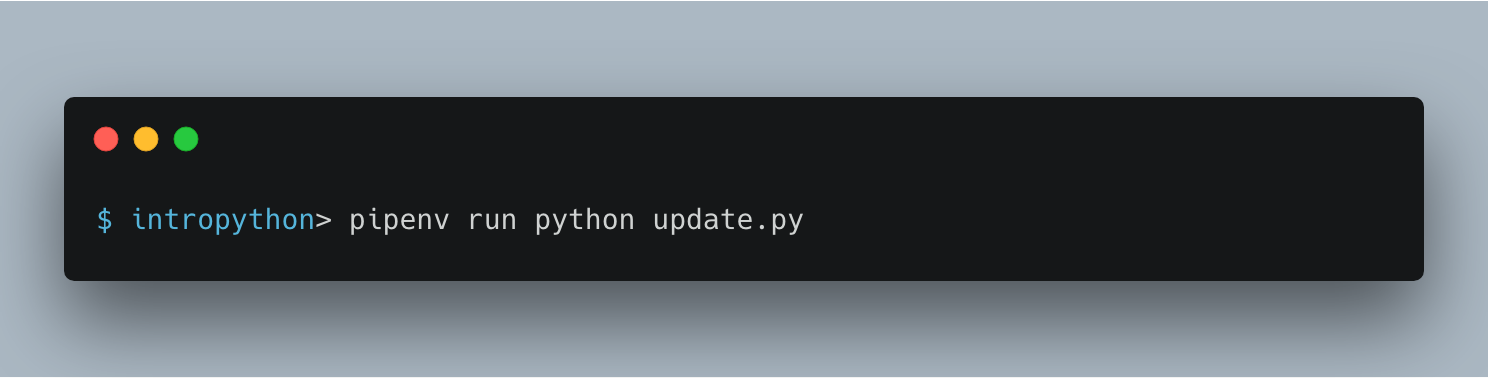
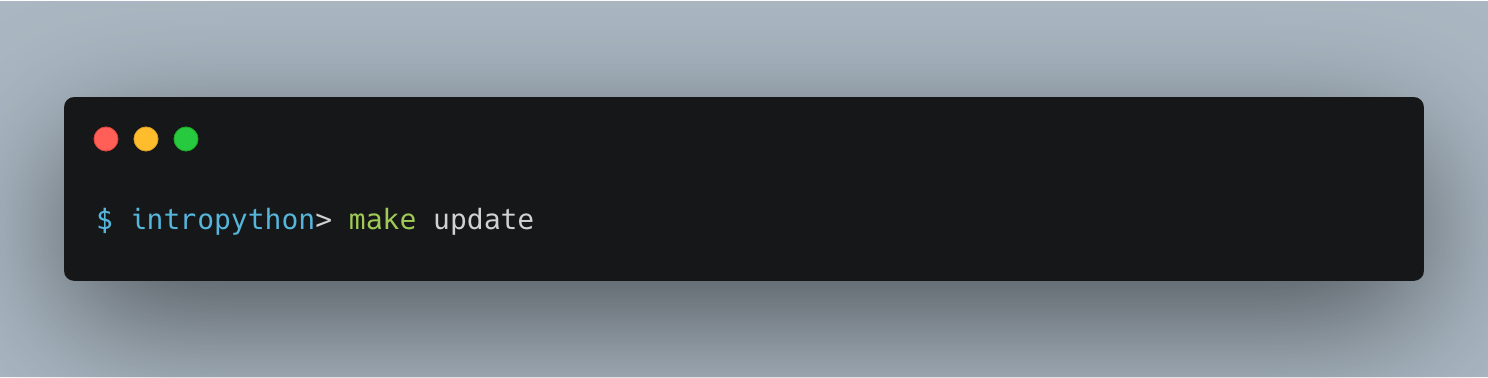
Improve update script

Changed region(s): [[0.2164, 0.5529, 0.5565, 0.6111]]

diff --git a/update.py b/update.py
@@ -1,15 +1,26 @@
 import datetime
+import os
 import shlex
 import shutil
 import subprocess
 from pathlib import Path
 
 timestamp = datetime.datetime.now().strftime('%y%m%dT%H%M')
+backup_folder = Path('backup')
+
+if not backup_folder.exists():
+    os.makedirs(backup_folder)
+    readme = backup_folder / 'README'
+    readme.write_text('''Esta carpeta contiene una copia de seguridad de los
+notebooks cada vez que se actualiza el repositorio. Es posible que algunas
+imágenes no se vean bien o algunas sentencias no funcionen porque la ruta a
+los ficheros es relativa al raíz del proyecto.''')
+
+backup_folder /= f'backup_{timestamp}'
+os.makedirs(backup_folder, exist_ok=True)
+
 for notebook in Path('.').glob('*.ipynb'):
-    notebook_stem = notebook.stem
-    if not notebook_stem.endswith('-custom'):
-        dst = notebook_stem + f'-{timestamp}-custom.ipynb'
-        shutil.copy(notebook, dst)
+    shutil.copy(notebook, backup_folder)
 
 cmd = 'git checkout -- .'
 subprocess.run(shlex.split(cmd))
